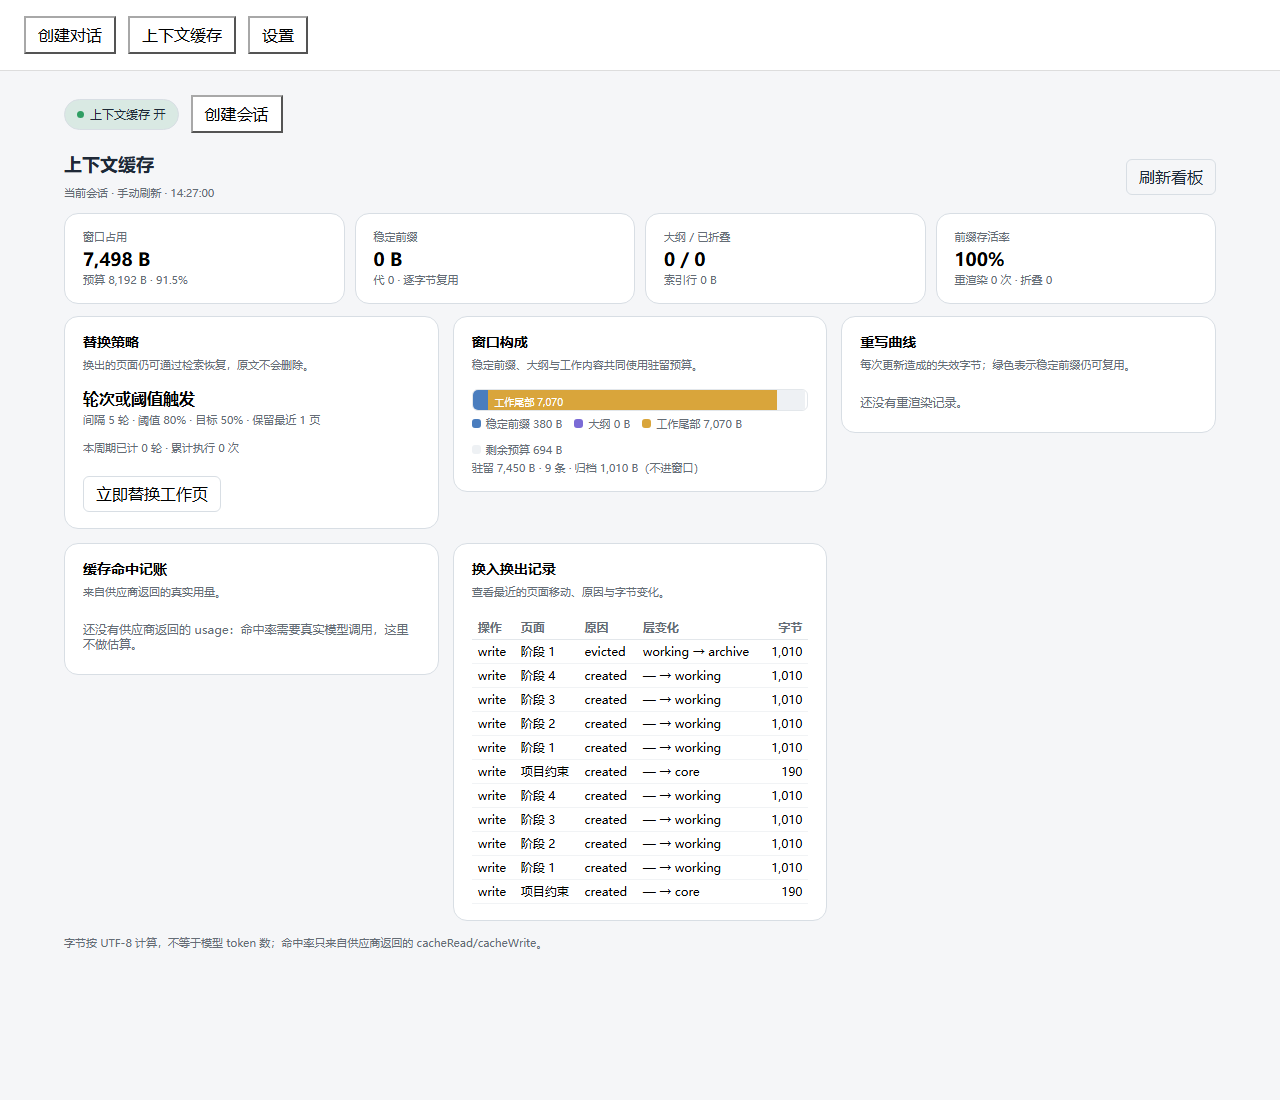
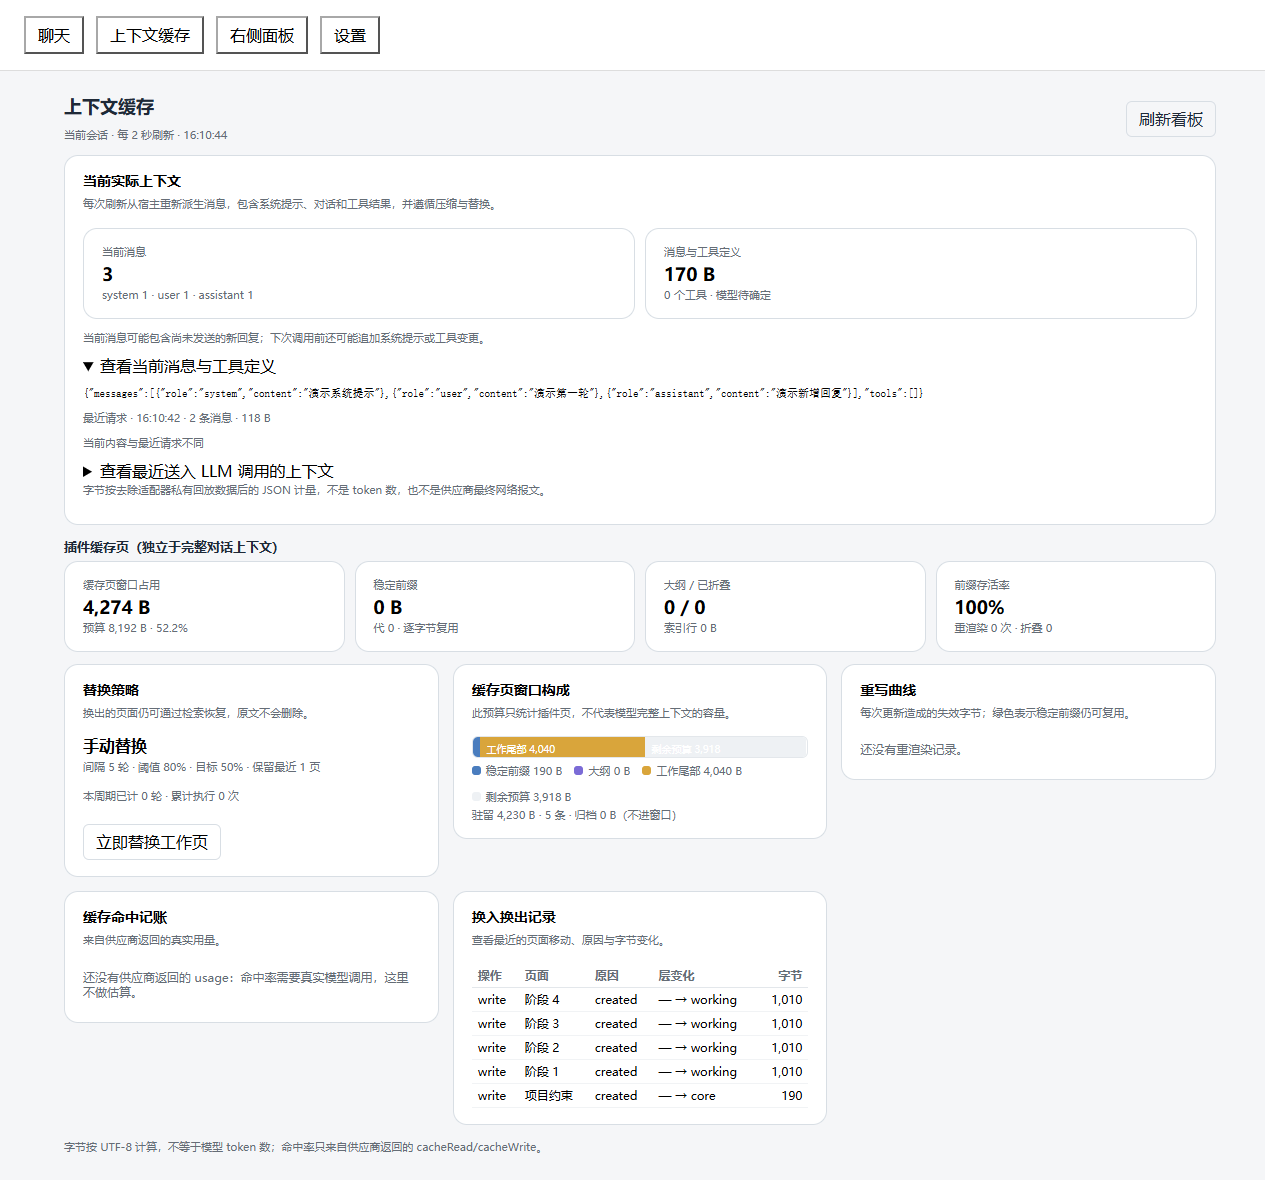
Fix live context dashboard and hide composer in dashboard view

diff --git a/lib/client.js b/lib/client.js
@@ -23,7 +23,7 @@ window.__ModuleLoader__.load({
       showUsage: true,
       compact: false,
       events: 200,
-      refreshMs: 0,
+      refreshMs: 2000,
     };
     function normalizePreferences(value) {
       const result = { ...DEFAULTS };
@@ -43,11 +43,12 @@ window.__ModuleLoader__.load({
     try {
       const saved = JSON.parse(window.localStorage?.getItem(PREF_KEY) ?? 'null');
       if (saved && typeof saved === 'object')
-        preferences.value = normalizePreferences(saved.state ?? saved);
+        preferences.value = normalizePreferences({ ...(saved.state ?? saved),
+          ...(saved.schema !== 2 && !(saved.state ?? saved).refreshMs ? { refreshMs: 2000 } : {}) });
     } catch { /* Invalid or unavailable storage falls back to defaults. */ }
     function setPreferences(next) {
       preferences.value = normalizePreferences(next);
-      try { window.localStorage?.setItem(PREF_KEY, JSON.stringify(preferences.value)); } catch {}
+      try { window.localStorage?.setItem(PREF_KEY, JSON.stringify({ ...preferences.value, schema: 2 })); } catch {}
       for (const listener of preferences.listeners) listener(preferences.value);
     }
     const preferenceActions = {
@@ -400,6 +401,29 @@ window.__ModuleLoader__.load({
         message ? h('p', { role: 'status', style: S.sub }, message) : null);
     }
 
+    function LiveContext({ live }) {
+      const current = live?.current;
+      const sent = live?.last_request;
+      const details = (title, snapshot) => snapshot ? h('details', { style: { marginTop: 10 } },
+        h('summary', { style: { cursor: 'pointer' } }, title),
+        h('pre', { style: { whiteSpace: 'pre-wrap', overflowWrap: 'anywhere', maxHeight: 360, overflow: 'auto', fontSize: 11 } }, snapshot.preview),
+        snapshot.truncated ? h('p', { style: S.sub }, '预览保留开头与结尾各 32768 字符，中间省略；统计与指纹按全部内容计算。') : null) : null;
+      return h(Card, { title: '当前实际上下文', hint: '每次刷新从宿主重新派生消息，包含系统提示、对话和工具结果，并遵循压缩与替换。' },
+        current ? h('div', null,
+          h('div', { style: S.row },
+            h(Kpi, { label: '当前消息', value: current.message_count, sub: Object.entries(current.roles).map(([role, count]) => `${role} ${count}`).join(' · ') }),
+            h(Kpi, { label: '消息与工具定义', value: `${nf.format(current.bytes)} B`, sub: `${current.tool_count} 个工具 · ${current.model || '模型待确定'}` })),
+          h('p', { style: S.sub }, '当前消息可能包含尚未发送的新回复；下次调用前还可能追加系统提示或工具变更。'),
+          details('查看当前消息与工具定义', current))
+          : h('p', { style: S.muted }, '宿主尚未加载该会话，无法读取当前上下文。打开或恢复对话后刷新。'),
+        sent ? h('div', null,
+          h('p', { style: S.sub }, `最近请求 · ${new Date(sent.captured_at).toLocaleTimeString()} · ${sent.message_count} 条消息 · ${nf.format(sent.bytes)} B`),
+          h('p', { style: S.sub }, current?.fingerprint === sent.fingerprint ? '当前内容与最近请求一致' : '当前内容与最近请求不同'),
+          details('查看最近送入 LLM 调用的上下文', sent))
+          : h('p', { style: S.sub }, '插件加载后尚未捕获该会话的模型请求。最近请求不会跨重启保留。'),
+        h('p', { style: S.sub }, '字节按去除适配器私有回放数据后的 JSON 计量，不是 token 数，也不是供应商最终网络报文。'));
+    }
+
     function Dashboard({ sessionId, prefs }) {
       const state = useDashboard(sessionId, prefs);
       if (!prefs.enabled) {
@@ -430,8 +454,10 @@ window.__ModuleLoader__.load({
           h('div', null, h('h2', { style: { margin: '0 0 5px', fontSize: 18 } }, '上下文缓存'),
             h('span', { style: S.sub }, `当前会话 · ${prefs.refreshMs ? `每 ${prefs.refreshMs / 1000} 秒刷新` : '手动刷新'} · ${new Date(state.updated).toLocaleTimeString()}`)),
           h('button', { type: 'button', onClick: state.reload, style: { ...S.input, width: 'auto', cursor: 'pointer' } }, '刷新看板')),
+        h(LiveContext, { live: model.live_context }),
+        h('h3', { style: S.sectionTitle }, '插件缓存页（独立于完整对话上下文）'),
         h('div', { style: S.row },
-          h(Kpi, { label: '窗口占用', value: `${nf.format(now.used_bytes)} B`,
+          h(Kpi, { label: '缓存页窗口占用', value: `${nf.format(now.used_bytes)} B`,
             sub: `预算 ${nf.format(model.budget)} B · ${pct(now.used_bytes, model.budget)}` }),
           h(Kpi, { label: '稳定前缀', value: `${nf.format(now.stable_prefix_bytes)} B`,
             sub: `代 ${now.generation} · 逐字节复用` }),
@@ -442,7 +468,7 @@ window.__ModuleLoader__.load({
             sub: `重渲染 ${totals.renders} 次 · 折叠 ${totals.folds}` })),
         h('div', { style: S.grid },
         h(ReplacementStatus, { sessionId, replacement: model.replacement, reload: state.reload }),
-        h(Card, { title: '窗口构成', hint: '稳定前缀、大纲与工作内容共同使用驻留预算。' },
+        h(Card, { title: '缓存页窗口构成', hint: '此预算只统计插件页，不代表模型完整上下文的容量。' },
         h(Stack, { segments: windowSegments, total: model.budget }),
         h(Legend, { segments: windowSegments }),
         prefs.compact ? null : h('div', { style: { marginTop: 4 } },
@@ -539,8 +565,10 @@ window.__ModuleLoader__.load({
         const prefs = props.useStore(state => state);
         const session = useSessionSwitch(props.sessionId);
         if (!prefs.enabled || !prefs.showTab) return null;
-        return session.enabled ? h(Dashboard, { sessionId: props.sessionId, prefs })
-          : h(SwitchHint, { sessionId: props.sessionId });
+        return h('div', { 'data-vctx-main-view': '' },
+          h('style', null, '[data-conversation-content]:has(> [data-conversation-scroll] [data-vctx-main-view]) > [data-conversation-scroll] > [data-composer-seat]{display:none!important}'),
+          session.enabled ? h(Dashboard, { sessionId: props.sessionId, prefs })
+            : h(SwitchHint, { sessionId: props.sessionId }));
       });
       own('sidebar.right.pane.tab', { key: 'vcontext' }, props => {
         const prefs = props.useStore(state => state);

diff --git a/docs/USAGE.zh-CN.md b/docs/USAGE.zh-CN.md
@@ -20,7 +20,7 @@
 | 显示位置 | 面板总开关、会话标签页、右侧侧栏 |
 | 看板内容 | 紧凑模式、换入换出记录、供应商缓存命中记账 |
 | 查询事件条数 | 20–2000 条；滑块和数值框同步；记录表展示最近 12 条、曲线展示最近 60 次 |
-| 自动刷新 | 手动或每 2/5/10/30/60 秒；旧设置中的自定义频率也保留，最低 1 秒 |
+| 自动刷新 | 默认每 2 秒；可选手动或每 2/5/10/30/60 秒；旧设置中的自定义频率也保留，最低 1 秒 |
 | 轻量查看 | 100 条，手动刷新，紧凑显示 |
 | 日常使用 | 200 条，每 5 秒刷新 |
 | 详细排查 | 1000 条，每 2 秒刷新 |
@@ -45,6 +45,18 @@
 例如：选择“轮次或阈值触发”，间隔 5 轮、阈值 80%、目标 50%、保留最近 1 页。达到条件时逐页归档可换出的工作页，直至低于 50% 或没有可换出的页面。如果核心页和受保护工作页本身超过目标，看板会明确显示“未达到目标”，不会删除或强制归档这些页面。
 
 策略对同一个 namespace 的会话统一生效。切换自动模式后，在模型步骤或新的用户消息到来时检查；没有后台定时清理任务。面板关闭时策略依然有效。默认字节预算不等于模型完整上下文窗口，历史消息仍需使用宿主 `/compact` 压缩。
+
+## 当前上下文与最近请求
+
+看板上方的“当前实际上下文”每次查询都会调用宿主 `Session.deriveMessages()`，包含当前系统提示、用户/助手消息和工具结果，遵循宿主的消息压缩与替换。它不会只读取启动时的 `request/header` 或 `request/context`。尚未加载的会话会明确显示不可读取，需要打开或恢复对话。
+
+“最近请求”来自插件加载后捕获的 `llm/stream` 调用，按会话隔离，显示发送时间、消息数量和内容预览。当前消息可能已经包含最近调用后新生成的回复，因此两者不同是正常现象。最近请求只保留在内存，重启后需等待下一次调用，最多保留 128 个会话；这是送入 LLM 接口的消息，不是供应商适配器转换后的最终网络报文。
+
+预览保留完整内容的开头与结尾各 32768 字符，超长中段省略，保留最新消息可见。统计和指纹覆盖全部已过滤的消息与工具定义 JSON；不含 API Key、连接头和适配器私有回放数据。字节数不是 token 数。生成中的流式回复尚未提交到会话时，不计入当前派生消息。
+
+默认每 2 秒刷新；旧版未设置自动刷新的偏好会迁移到 2 秒。之后可在设置中明确选“关闭”，保留手动刷新。下方“插件缓存页”是独立页存储的预算和统计，不代表模型完整上下文容量。
+
+主导航的上下文缓存看板隐藏聊天输入框，切回聊天立即恢复。只打开右侧上下文缓存面板时仍可正常输入。
 
 ## 看板卡片
 

diff --git a/docs/UI.md b/docs/UI.md
@@ -30,3 +30,7 @@ HTTP 前缀注册为 `/vctx`，处理器内部匹配 `/vctx/` 下的路径。宿
 ## 自动替换
 
 用户消息事件的持久序号用于轮次去重；工具调用和同轮模型步骤不递增。每个模型步骤开始前额外检查占用阈值，并更新注入快照。策略与轮次保存在 SQLite，替换记录进入换页账本。核心页、核心索引和受保护的最近工作页不参与换出；保护导致无法达到目标时在看板说明。
+
+## 实时上下文
+
+`dashboard.live_context` 包含每次查询重新派生的 `current`、插件加载后最后捕获的 `last_request` 以及查询时间。LLM 中间件只观察请求并原样调用 next，不修改消息。主看板通过宿主公开的 data 属性限定输入框隐藏规则，卸载看板即恢复，右侧槽位不注入该规则。

diff --git a/README.md b/README.md
@@ -11,6 +11,8 @@
 
 ## 功能
 
+- **实时上下文**：重新读取宿主当前派生消息，并展示插件加载后最近一次 LLM 调用的独立快照；默认每 2 秒刷新。
+- **专用看板**：主看板隐藏输入框，回到聊天自动恢复；右侧面板不影响聊天输入。
 - **分层记忆**：`core` 核心页常驻；`working` 工作页按需换出；`archive` 归档页可检索恢复。
 - **四种替换模式**：手动、每 N 轮、达到占用阈值、轮次或阈值任一满足。
 - **可调参数**：间隔、触发阈值、目标占用、保留最近页数，以及低价值密度 / 最久未使用优先。
